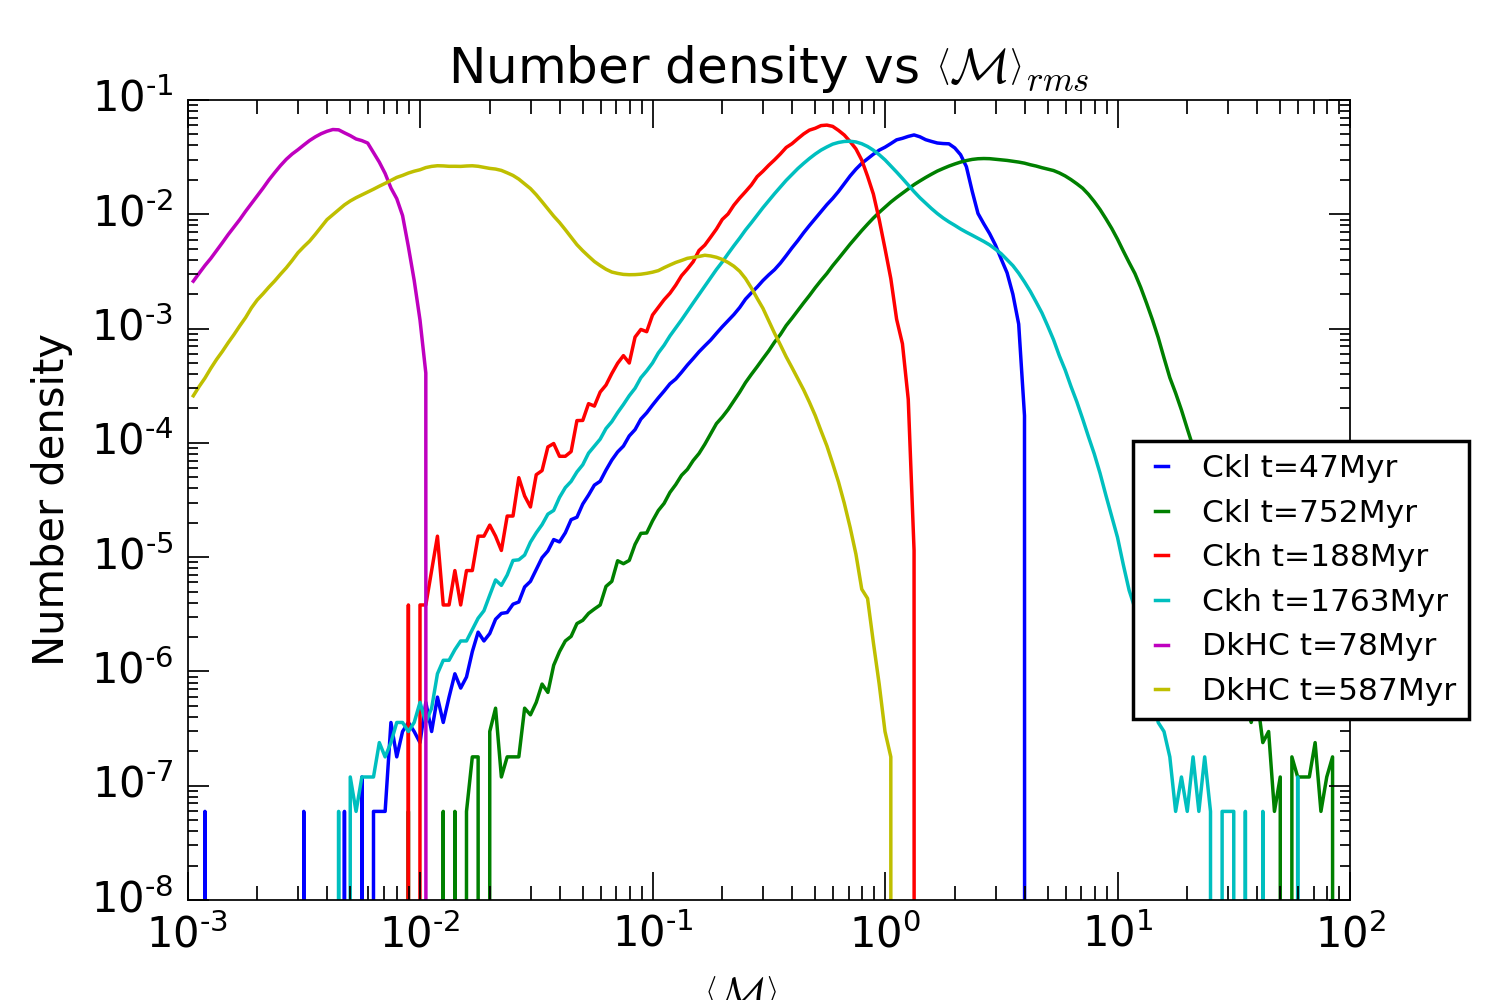
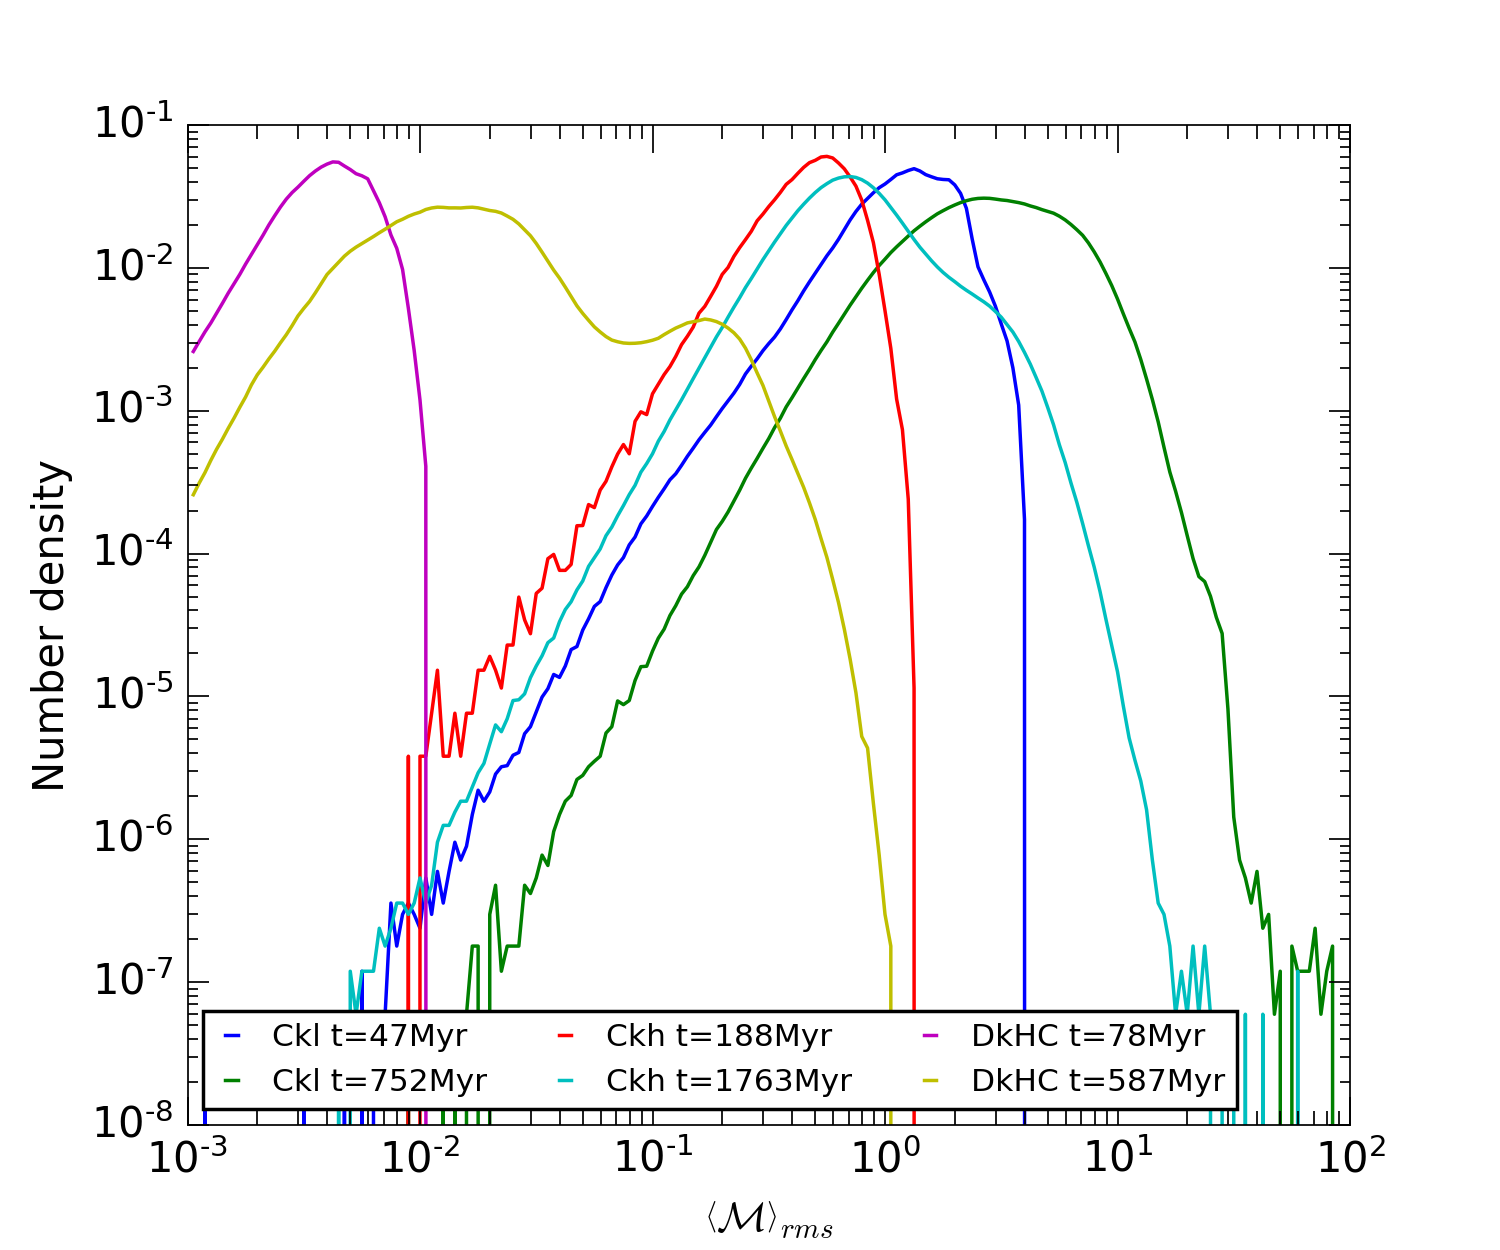
Edited mach and temp dist plots

diff --git a/mach_temp_dist/mach-temp-dist.py b/mach_temp_dist/mach-temp-dist.py
@@ -44,17 +44,17 @@ for i1 in xrange(0,no_files):
 	file=filedir+'mach'+str(int(t_mp[i1]/step_size[i1]+0.1)).rjust(4,'0')+'.txt'
 	data = np.loadtxt(file, skiprows=1, usecols=(0,1))
 	ax.plot(data[:,0],data[:,1]/(float(nx*ny*nz)),label=labels[i1]+' t='+str(int(t_mp[i1]*UNIT_TIME))+'Myr')
-fig.set_size_inches(6, 4)
+fig.set_size_inches(6, 5)
 ax.set_xscale('log')
 ax.set_yscale('log')
 ax.set_xlabel(r'$\left<\mathcal{M}\right>_{rms}$')
 ax.set_ylabel(r'Number density')
-ax.set_title(r'Number density vs $\left<\mathcal{M}\right>_{rms}$')
+#ax.set_title(r'Number density vs $\left<\mathcal{M}\right>_{rms}$')
 # Shrink current axis by 20%
 box = ax.get_position()
 ax.set_position([box.x0, box.y0, box.width, box.height])
 # Put a legend to the bottom of the current axis
-ax.legend(loc='center left', bbox_to_anchor=(0.8, 0.4), ncol=1)
+ax.legend(loc='lower left', bbox_to_anchor=(0.0, 0.0), ncol=3)
 #plt.savefig('mach-dist.png',dpi=250)
 plt.savefig('mach-dist-extremes.png',dpi=250)
 plt.close()
@@ -73,7 +73,7 @@ ax.set_xscale('log')
 ax.set_yscale('log')
 ax.set_xlabel(r'$\left<T\right>$')
 ax.set_ylabel(r'Number density')
-ax.set_title(r'Number density vs $\left<T\right>$')
+#ax.set_title(r'Number density vs $\left<T\right>$')
 # Shrink current axis by 20%
 box = ax.get_position()
 ax.set_position([box.x0, box.y0, box.width, box.height])
